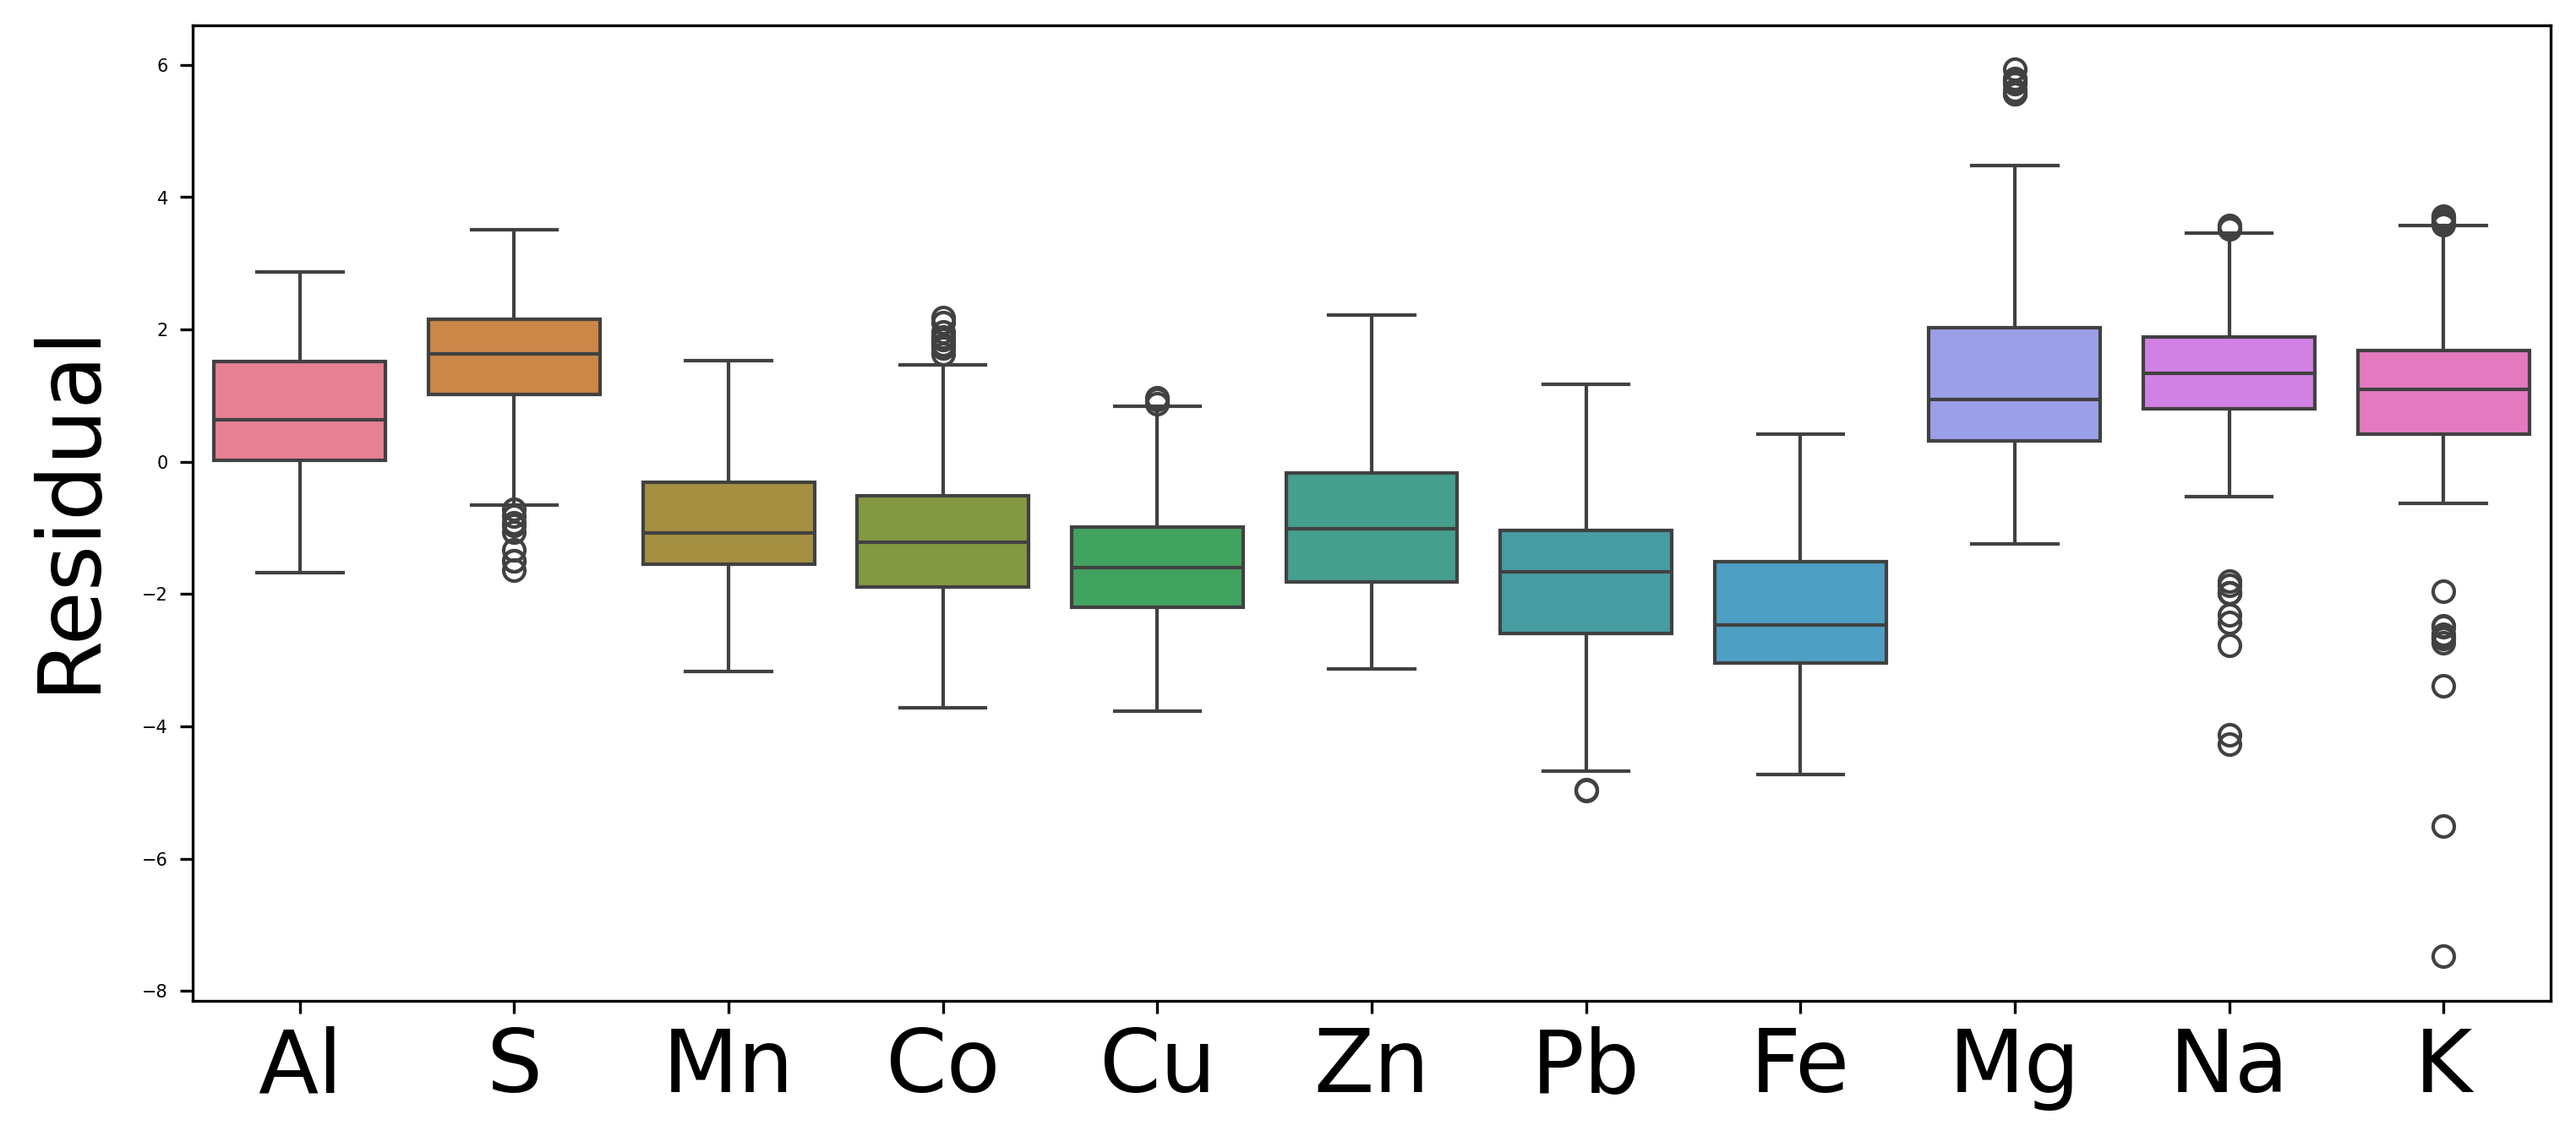
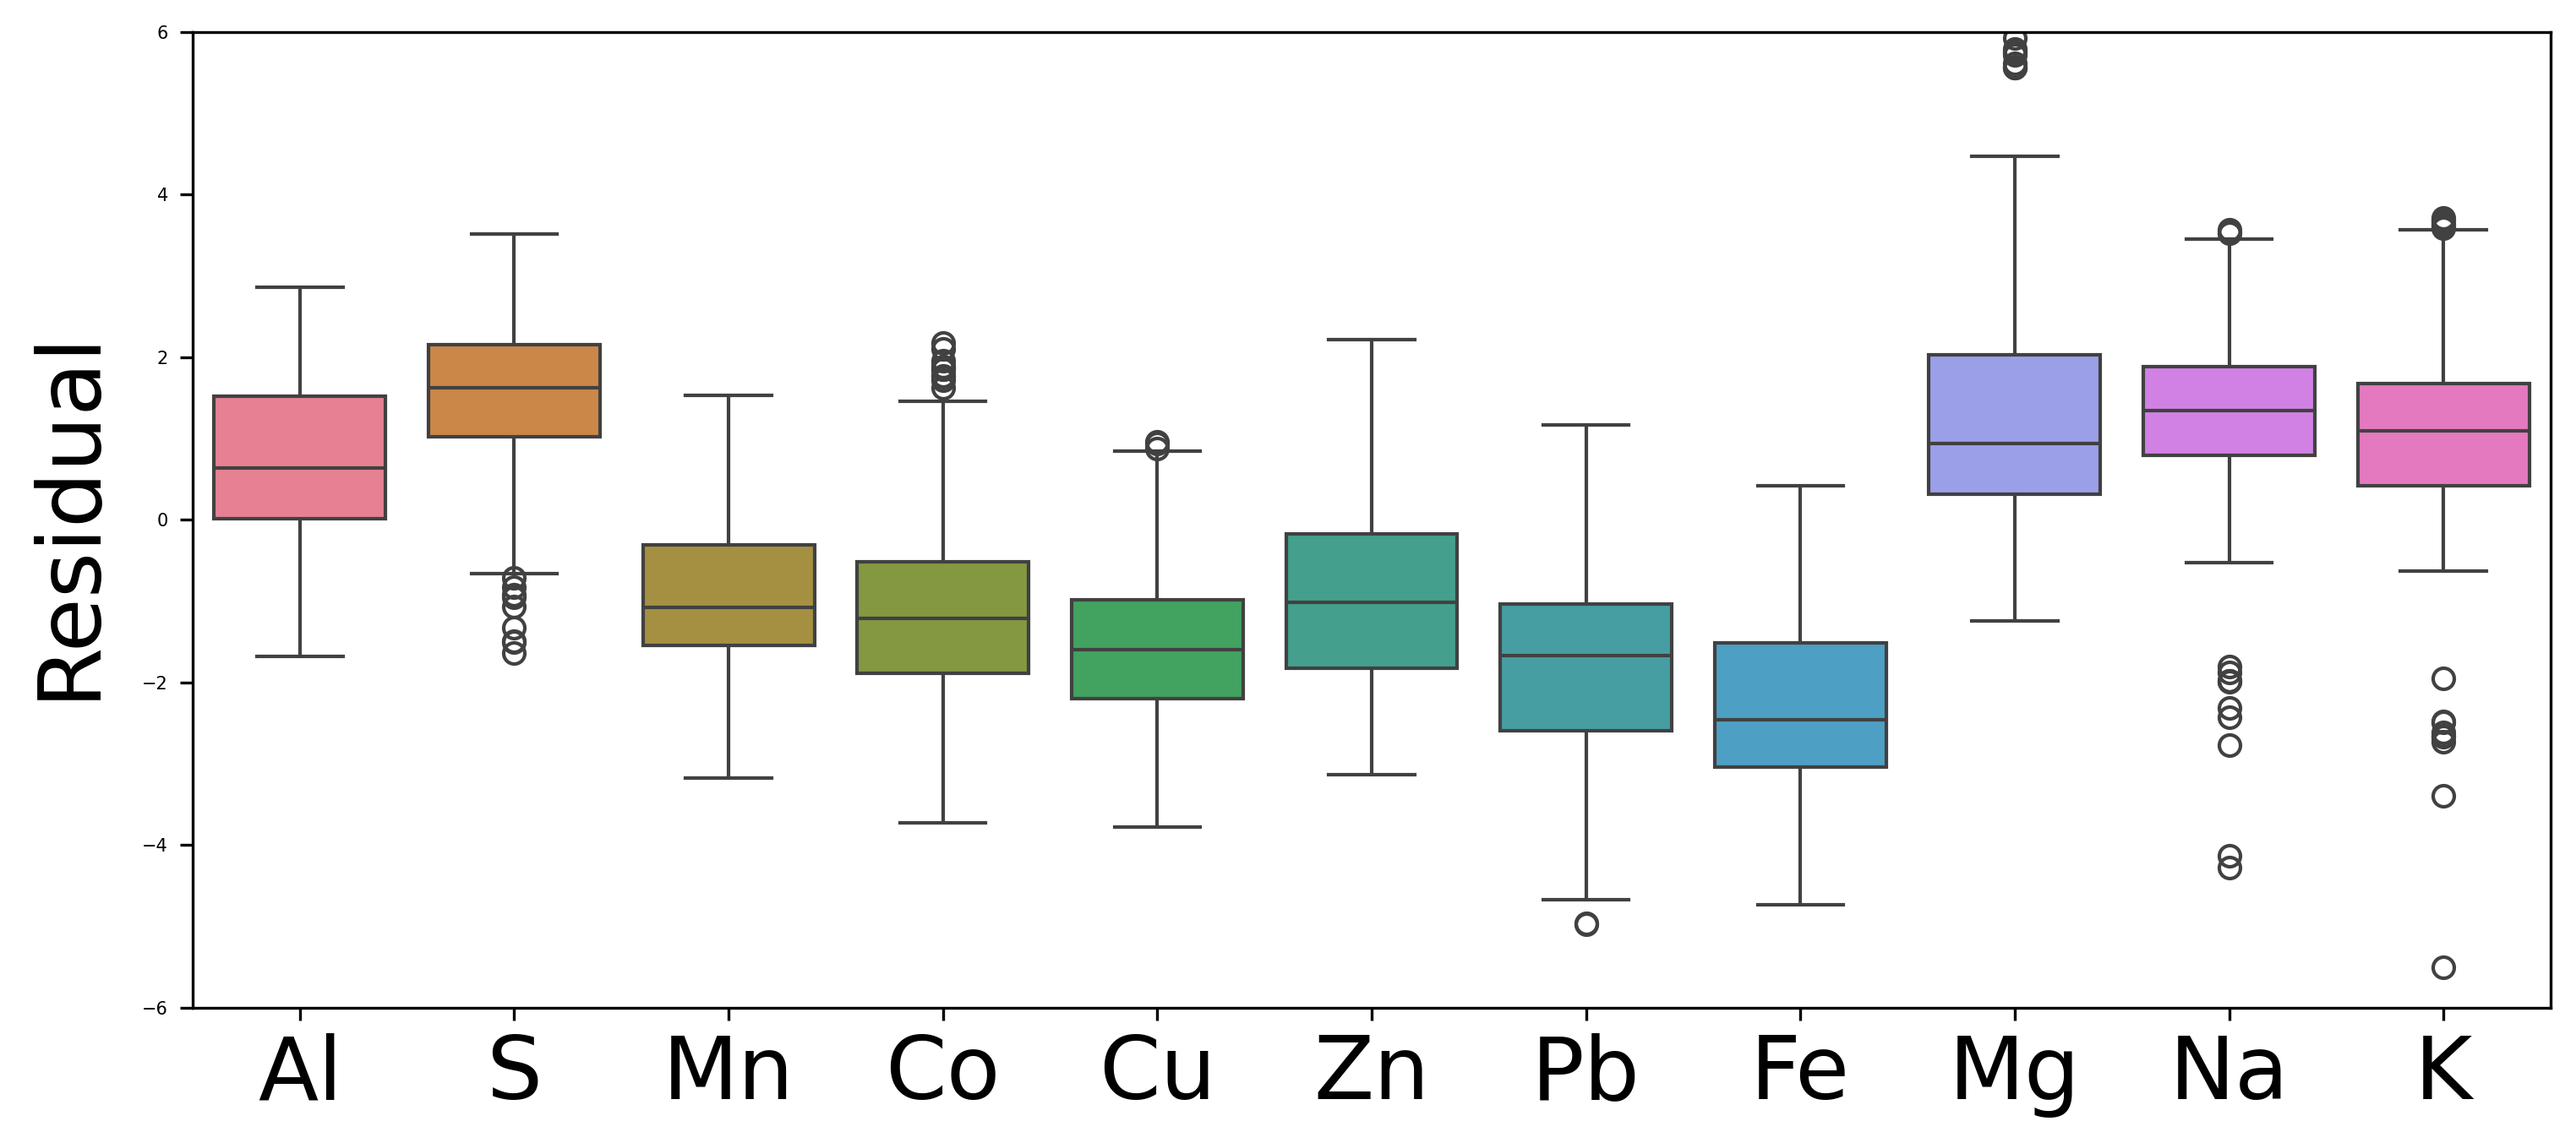
New visualisations comparing models

diff --git a/analysis/4_5_comparison_with_benchmark.py b/analysis/4_5_comparison_with_benchmark.py
@@ -1,3 +1,4 @@
+
 import sys
 sys.path.insert(1, '../src/')
 from data_utils import *
@@ -9,7 +10,7 @@ import json
 with open('../config.json', 'r') as f:
     config = json.load(f)
 
-mode = "benchmark_rf"
+mode = "benchmark_sur"
 
 PREPROCESSING_METHOD = config["preprocessing_method"]
 HOW_MANY_OUTER_TO_REMOVE = config["how_many_outer_to_remove"]
@@ -50,106 +51,111 @@ original_labels = get_sample_number_in_group(original_labels)
 
 X_train, y_train, X_val, y_val, X_test, y_test, train_order, val_order, test_order = data_list
 
-# Defining model, training and prediction
-
-if mode == "benchmark_rf":
-
-    # Random Forest Regressor
-    rf_regressor = RandomForestRegressor(
-                                        n_estimators=100,
-                                        criterion='absolute_error',
-                                        random_state=3,
-                                        oob_score=True
-                                        )
-    # Training or loading
-    rf_regressor = load_or_train_model('/'.join(MODELS_PATH.split('/')[:-1]) + '/' + 'rf', rf_regressor, X_train, y_train)
-
-    # Prediction on test set
-    outputs = rf_regressor.predict(X_test)
-
-
-elif mode == "benchmark_xgboost":
-    
-    xgboost_model = XGBRegressor(
-        multi_strategy="multi_output_tree"
-    )
-
-    xgboost_model = load_or_train_model('/'.join(MODELS_PATH.split('/')[:-1]) + '/' + 'xgboost', xgboost_model, X_train, y_train)
-
-    outputs = xgboost_model.predict(X_test)
-
-elif mode == "benchmark_sur":
-
-    outputs = X_test
-    # outputs = np.mean(X_test, axis=0)
-    # outputs = np.tile(outputs, (y_test.shape[0], 1))
-
 labels = y_test
-difference = abs(outputs-labels)
-mean_loss = np.mean(difference)
-print(difference)
-print(np.mean(difference))
 
-# # First five in group only
-# # labels = labels[original_labels<=5]
-# # outputs = outputs[original_labels<=5]
-# # test_order = test_order[original_labels<=5]
+# # Defining model, training and prediction
 
-## Validation on test set (never seen by InksNet)
+# if mode == "benchmark_rf":
 
-# Consecutive inks from test set are in labels tensor:
-print('y_true:')
-print(labels)
+#     # Random Forest Regressor
+#     rf_regressor = RandomForestRegressor(
+#                                         n_estimators=100,
+#                                         criterion='absolute_error',
+#                                         random_state=3,
+#                                         oob_score=True
+#                                         )
+#     # Training or loading
+#     rf_regressor = load_or_train_model('/'.join(MODELS_PATH.split('/')[:-1]) + '/' + 'rf', rf_regressor, X_train, y_train)
 
-
-# Predictions are in outputs tensor:
-print('y_pred:')
-print(outputs)
+#     # Prediction on test set
+#     outputs = rf_regressor.predict(X_test)
 
 
-# Absolute value of difference between true values (labels) and prediction (outputs) are stored in difference tensor:
-print('Difference:')
-print(difference)
+# elif mode == "benchmark_xgboost":
+    
+#     xgboost_model = XGBRegressor(
+#         multi_strategy="multi_output_tree"
+#     )
+
+#     xgboost_model = load_or_train_model('/'.join(MODELS_PATH.split('/')[:-1]) + '/' + 'xgboost', xgboost_model, X_train, y_train)
+
+#     outputs = xgboost_model.predict(X_test)
+
+# elif mode == "benchmark_sur":
+
+#     outputs = X_test
+#     #outputs = np.mean(X_train, axis=0)
+#     #outputs = np.tile(outputs, (y_test.shape[0], 1))
+
+# difference = abs(outputs-labels)
+# mean_loss = np.mean(difference)
+# print(difference)
+# print(np.mean(difference))
+
+# # # First five in group only
+# # # labels = labels[original_labels<=5]
+# # # outputs = outputs[original_labels<=5]
+# # # test_order = test_order[original_labels<=5]
+
+# ## Validation on test set (never seen by InksNet)
+
+# # Consecutive inks from test set are in labels tensor:
+# print('y_true:')
+# print(labels)
 
 
-# # Mean loss:
-print('Mean loss:')
-print(mean_loss)
+# # Predictions are in outputs tensor:
+# print('y_pred:')
+# print(outputs)
 
-# # Loss on consecutive coordinates:
-print('Loss on consecutive coordinates:')
-print(np.mean(difference, axis=0))
-# # Consecutive coordinates correspond to: Al, S, Cr, Mn, Co, Cu, Zn, Pb, Fe, Mg.
-# # Significance of elements: Cu >> Mn > Al > Zn > Pb > S > Cr > Co >> all the others.
 
-# # BASIC DIAGNOSTIC PLOTS
+# # Absolute value of difference between true values (labels) and prediction (outputs) are stored in difference tensor:
+# print('Difference:')
+# print(difference)
 
-summary = compute_metrics(outputs, labels)
-print(summary)
 
-plot_pred_vs_gt(outputs, labels, ELEMENTS_TO_KEEP, dims_to_keep=dims_to_keep, nrows=nrows, xlabel='Logarithmed true value', ylabel='Logarithmed prediction', path_to_save=FIGURES_PATH)
+# # # Mean loss:
+# print('Mean loss:')
+# print(mean_loss)
 
-plot_residuals(outputs, labels, ELEMENTS_TO_KEEP, dims_to_keep=dims_to_keep, nrows=nrows, xlabel='Logarithmed true value', path_to_save=FIGURES_PATH)
+# # # Loss on consecutive coordinates:
+# print('Loss on consecutive coordinates:')
+# print(np.mean(difference, axis=0))
+# # # Consecutive coordinates correspond to: Al, S, Cr, Mn, Co, Cu, Zn, Pb, Fe, Mg.
+# # # Significance of elements: Cu >> Mn > Al > Zn > Pb > S > Cr > Co >> all the others.
 
-plot_error_distributions(outputs, labels, ELEMENTS_TO_KEEP, dims_to_keep=dims_to_keep, nrows=nrows, xlabel='Residual', ylabel='Count', path_to_save=FIGURES_PATH)
+# # # BASIC DIAGNOSTIC PLOTS
 
-plot_qq(outputs, labels, ELEMENTS_TO_KEEP, dims_to_keep=dims_to_keep, nrows=nrows, xlabel='Theoretical quantiles', ylabel='Prediction quantiles', path_to_save=FIGURES_PATH)
+# summary = compute_metrics(outputs, labels)
+# print(summary)
 
-plot_error_boxplot(outputs, labels, ELEMENTS_TO_KEEP, dims_to_keep='all', xlabel='', ylabel='Residual', path_to_save=FIGURES_PATH)
+# plot_pred_vs_gt(outputs, labels, ELEMENTS_TO_KEEP, dims_to_keep=dims_to_keep, nrows=nrows, xlabel='Logarithmed true value', ylabel='Logarithmed prediction', path_to_save=FIGURES_PATH)
 
-plot_error_violinplot(outputs, labels, ELEMENTS_TO_KEEP, dims_to_keep='all', xlabel='', ylabel='Residual', path_to_save=FIGURES_PATH)
+# plot_residuals(outputs, labels, ELEMENTS_TO_KEEP, dims_to_keep=dims_to_keep, nrows=nrows, xlabel='Logarithmed true value', path_to_save=FIGURES_PATH)
 
-plot_correlation_heatmaps(outputs, labels, ELEMENTS_TO_KEEP, xlabel='', ylabel='Residual', cluster=True, path_to_save=FIGURES_PATH)
+# plot_error_distributions(outputs, labels, ELEMENTS_TO_KEEP, dims_to_keep=dims_to_keep, nrows=nrows, xlabel='Residual', ylabel='Count', path_to_save=FIGURES_PATH)
 
-plot_l1_error(outputs, labels, path_to_save=FIGURES_PATH)
+# plot_qq(outputs, labels, ELEMENTS_TO_KEEP, dims_to_keep=dims_to_keep, nrows=nrows, xlabel='Theoretical quantiles', ylabel='Prediction quantiles', path_to_save=FIGURES_PATH)
 
-plot_l1_error_with_density(outputs, labels, path_to_save=FIGURES_PATH)
+# plot_error_boxplot(outputs, labels, ELEMENTS_TO_KEEP, dims_to_keep='all', xlabel='', ylabel='Residual', path_to_save=FIGURES_PATH)
+
+# plot_error_violinplot(outputs, labels, ELEMENTS_TO_KEEP, dims_to_keep='all', xlabel='', ylabel='Residual', path_to_save=FIGURES_PATH)
+
+# plot_correlation_heatmaps(outputs, labels, ELEMENTS_TO_KEEP, xlabel='', ylabel='Residual', cluster=True, path_to_save=FIGURES_PATH)
+
+# plot_l1_error(outputs, labels, path_to_save=FIGURES_PATH)
+
+# plot_l1_error_with_density(outputs, labels, path_to_save=FIGURES_PATH)
 
 ########################################################################
 # ALL MODELS
+model_names = ['Surrogate model',  'XGBoost', 'Random Forest','InksNet']
+mean_errors_names = ["mean_mae", "mean_rmse", "mean_l2"]
 
 # Surrogate model
 outputs_sur = X_test
+# outputs_sur = np.mean(X_test, axis=0)
+# outputs_sur = np.tile(outputs_sur, (y_test.shape[0], 1))
 
 # Random Forest Regressor
 rf_regressor = RandomForestRegressor(
@@ -175,3 +181,97 @@ model.load_state_dict(torch.load(MODELS_PATH, weights_only=False))
 model.eval()
 outputs_nn = to_numpy(model(data_to_device(X_test, device)))
 
+# Figures comparing models
+
+summary_sur = compute_metrics(outputs_sur, labels)
+summary_rf = compute_metrics(outputs_rf, labels)
+summary_xgboost = compute_metrics(outputs_xgboost, labels)
+summary_nn = compute_metrics(outputs_nn, labels)
+
+mae_sur = summary_sur['mae']
+mae_rf = summary_rf['mae']
+mae_xgboost = summary_xgboost['mae']
+mae_nn = summary_nn['mae']
+
+rmse_sur = summary_sur['rmse']
+rmse_rf = summary_rf['rmse']
+rmse_xgboost = summary_xgboost['rmse']
+rmse_nn = summary_nn['rmse']
+
+r2_sur = summary_sur['r2']
+r2_rf = summary_rf['r2']
+r2_xgboost = summary_xgboost['r2']
+r2_nn = summary_nn['r2']
+
+
+# Plots model element
+
+plot_model_element(
+                    errors = [mae_sur, mae_rf, mae_xgboost, mae_nn], 
+                    model_names = model_names, 
+                    elements_to_keep = ELEMENTS_TO_KEEP, 
+                    figsize=(12, 5), 
+                    ylabel='MAE', 
+                    # y_lower_lim=0.45,
+                    # y_upper_lim=1.75,
+                    path_to_save=config["figures_path"]['all'] + 'mae.png'
+                    )
+
+plot_model_element(
+                    errors = [rmse_sur, rmse_rf, rmse_xgboost, rmse_nn], 
+                    model_names = model_names, 
+                    elements_to_keep = ELEMENTS_TO_KEEP, 
+                    figsize=(12, 5), 
+                    ylabel='RMSE', 
+                    # y_lower_lim=0.5,
+                    # y_upper_lim=2,
+                    path_to_save=config["figures_path"]['all'] + 'rmse.png'
+                    )
+
+plot_model_element(
+                    errors = [r2_sur, r2_rf, r2_xgboost, r2_nn], 
+                    model_names = model_names, 
+                    elements_to_keep = ELEMENTS_TO_KEEP, 
+                    figsize=(12, 5), 
+                    ylabel='R$^2$', 
+                    # y_lower_lim=-1,
+                    # y_upper_lim=1,
+                    path_to_save=config["figures_path"]['all'] + 'r2.png'
+                    )
+
+# Heatmaps model element
+
+heatmap_model_element(
+                        errors = [mae_sur, mae_rf, mae_xgboost, mae_nn],
+                        model_names = model_names,
+                        elements_to_keep = ELEMENTS_TO_KEEP,
+                        path_to_save = config["figures_path"]['all'] + 'mae_heatmap.png'
+                    )
+
+heatmap_model_element(
+                        errors = [rmse_sur, rmse_rf, rmse_xgboost, rmse_nn],
+                        model_names = model_names,
+                        elements_to_keep = ELEMENTS_TO_KEEP,
+                        path_to_save = config["figures_path"]['all'] + 'rmse_heatmap.png'
+                    )
+
+heatmap_model_element(
+                        errors = [r2_sur, r2_rf, r2_xgboost, r2_nn],
+                        model_names = model_names,
+                        elements_to_keep = ELEMENTS_TO_KEEP,
+                        path_to_save = config["figures_path"]['all'] + 'r2_heatmap.png'
+                    )
+
+# Plots model metric
+
+
+# Heatmaps model metric
+
+
+heatmap_model_metric(
+                        summaries = [summary_sur, summary_rf, summary_xgboost, summary_nn], 
+                        model_names = model_names, 
+                        errors_names = ['mean_mae', 'mean_rmse', 'mean_l2'],
+                        official_errors_names = ['MAE', 'RMSE', 'L2'], 
+                        path_to_save=config["figures_path"]['all'] + 'error_heatmap.png'
+                        )

diff --git a/src/train_and_evaluate.py b/src/train_and_evaluate.py
@@ -718,6 +718,80 @@ def plot_pca_projection(outputs, labels, figsize=(8, 5), path_to_save=None, max_
     plt.show()
     plt.close(fig)
 
+
+def plot_model_element(errors, model_names, elements_to_keep, figsize=(12, 5), ylabel='MAE', y_upper_lim=None, y_lower_lim=None, path_to_save=None):
+
+    plt.figure(figsize=figsize)
+
+    for i in range(len(errors)):
+
+        plt.plot(range(len(errors[i])), errors[i], "o-", linewidth=0.8, markersize=5, label=model_names[i])
+
+
+    # Eleven labels on the horizontal axis
+    plt.xticks(range(len(errors[i])), elements_to_keep, size=25)
+
+    plt.ylabel(ylabel, size=25)
+    plt.ylim(y_lower_lim, y_upper_lim)
+    plt.legend(fontsize=15)
+    plt.tight_layout()
+
+    if path_to_save:
+        plt.savefig(path_to_save, dpi=300, bbox_inches="tight")
+    plt.show()
+    plt.close()
+
+
+def heatmap_model_element(errors, model_names, elements_to_keep, figsize=(12, 5), path_to_save=None):
+
+    df = pd.DataFrame(index=model_names, columns=elements_to_keep, dtype=float)
+
+    for i, el in enumerate(elements_to_keep):
+
+        for j, model in enumerate(model_names):
+
+            df.loc[model, el] = errors[j][i]
+
+    plt.figure(figsize=figsize)
+
+    sns.heatmap(df, annot=False, cmap='rocket_r')
+
+    plt.xticks(np.array(range(len(elements_to_keep)))+0.5, elements_to_keep, size=25)
+    plt.yticks(np.array(range(len(model_names)))+0.5, model_names, size=25, rotation=0)
+
+    plt.tight_layout()
+
+    if path_to_save:
+        plt.savefig(path_to_save, dpi=300, bbox_inches="tight")
+    plt.show()
+    plt.close()
+
+
+def heatmap_model_metric(summaries, model_names, errors_names, official_errors_names, figsize=(12, 5), path_to_save=None):
+
+    mean_errors = pd.DataFrame(index=model_names, columns=errors_names, dtype=float)
+
+    for err in errors_names:
+
+        for j, model in enumerate(model_names):
+
+            mean_errors.loc[model, err] = summaries[j][err]
+
+    plt.figure(figsize=figsize)
+
+    sns.heatmap(mean_errors, annot=False, cmap='rocket_r')
+
+    # Eleven labels on the horizontal axis
+    plt.xticks(np.array(range(len(errors_names)))+0.5, official_errors_names, size=25)
+    plt.yticks(np.array(range(len(model_names)))+0.5, model_names, size=25, rotation=0)
+
+    plt.tight_layout()
+
+    if path_to_save:
+        plt.savefig(path_to_save, dpi=300, bbox_inches="tight")
+    plt.show()
+    plt.close()
+
 # CLASSIFICATION-BASED STATISTICS AND VISUALISATIONS PART 1
 
 def plot_topk_confusion(y_true, y_pred, top_k=20, figsize=(7, 5), path_to_save=None):
